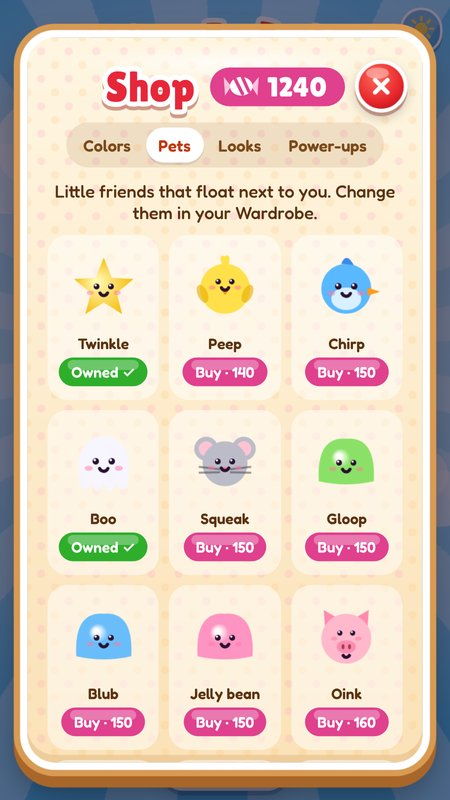
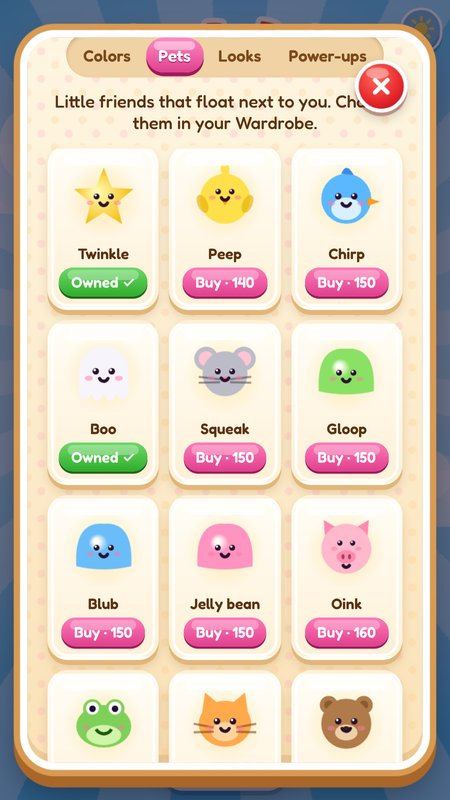
Tienda y vestuario de caramelo: pestañas con brillo, casillas con relieve y regalos envueltos para lo que falta descubrir

diff --git a/index.html b/index.html
@@ -244,13 +244,13 @@ body[data-ev="christmas"] #evBtn{background:rgba(255,255,255,.18)}
 .look.prize.on{border-color:#2fae2c}
 .look .trophy{font-size:11px;font-weight:700;color:#a35f00;letter-spacing:.06em;text-transform:uppercase}
 @media (max-width:420px){ .wtab{font-size:13px;padding:6px 10px} }
-.buy.owned{background:#2fae2c;color:#fff;opacity:1;cursor:default}
+.buy.owned{background:linear-gradient(#6fd86a,#2fae2c);box-shadow:0 2px 0 #1c6a1a;color:#fff;opacity:1;cursor:default}
 .sheet::-webkit-scrollbar{display:none;width:0;height:0}   /* panels scroll with the finger, no bar on the side */
 @media (max-width:420px){ .itab{font-size:12px!important;padding:6px 7px!important} .tab{font-size:13px;padding:6px 10px;white-space:nowrap} .tabs{gap:2px;max-width:100%} }
 .isub{margin:6px 0 4px;font:600 13px var(--body);color:#7a4a1c}
 .itab{border:0;background:transparent;font:600 13px var(--body);color:#7a4a1c;padding:6px 9px;white-space:nowrap;border-radius:99px;cursor:pointer}
 .itab.on{background:#fff;color:#c2370f;box-shadow:0 2px 0 rgba(0,0,0,.08)}
-.item{display:flex;flex-direction:column;align-items:center;gap:4px;padding:8px 4px;border-radius:16px;border:3px solid transparent;background:rgba(255,255,255,.5);font:600 12px var(--body);color:#5b3210}
+.item{display:flex;flex-direction:column;align-items:center;gap:4px;padding:8px 4px;border-radius:16px;border:3px solid transparent;font:600 12px var(--body);color:#5b3210}
 .item.on{border-color:#2fae2c;background:#fff}
 .item.mystery{background:rgba(120,90,60,.12);color:#9a7a5a}
 .item .note{font:600 10px/1.2 var(--body);text-align:center;padding:0 4px;opacity:.8;margin-top:-2px}
@@ -260,9 +260,24 @@ body[data-ev="christmas"] #evBtn{background:rgba(255,255,255,.18)}
 .newDot{position:absolute;top:-2px;right:-2px;width:16px;height:16px;border-radius:50%;background:#e8263a;border:2px solid #fff;animation:dotPop 1.2s ease-in-out infinite}
 @keyframes dotPop{50%{transform:scale(1.2)}}
 .item.tap{cursor:pointer;transition:transform .1s}.item.tap:active{transform:scale(.96)}
+/* candy shop: sunken tab rail with a glossy pink tab, raised tiles with a lip and a shine, items on a soft golden glow, still-wrapped presents for what is not found yet */
+.tabs{background:#f0d2a4;box-shadow:inset 0 2px 3px rgba(150,90,30,.3)}
+.tab.on,.itab.on,.wtab.on{position:relative;color:#fff;background:linear-gradient(#ff8ac4,#e0408e);box-shadow:0 3px 0 #a01a5e;text-shadow:0 1px 0 #a01a5e}
+.tab.on::after,.itab.on::after,.wtab.on::after{content:"";position:absolute;left:14%;right:14%;top:3px;height:7px;border-radius:99px;background:rgba(255,255,255,.45)}
+.item,.look{position:relative;background:linear-gradient(#fffdf6,#fff0d6);box-shadow:0 4px 0 #e2b67a,0 6px 8px rgba(150,90,30,.2),inset 0 0 0 2px #fff}
+.item::after,.look::after{content:"";position:absolute;left:12%;right:12%;top:4px;height:9px;border-radius:99px;background:rgba(255,255,255,.75);pointer-events:none}
+.item canvas,.item img,.look canvas,.look img{background:radial-gradient(closest-side,rgba(255,215,110,.5),rgba(255,215,110,0))}
+.item.mystery,.look.locked{background:linear-gradient(#f7e2c2,#efd2a6);box-shadow:0 4px 0 #d3a464,inset 0 0 0 2px rgba(255,255,255,.6)}
+.look.locked canvas,.look.locked img{background:none}
+.gift{position:relative;z-index:1;width:46px;height:38px;margin:26px 0 2px;border-radius:6px;
+  background:linear-gradient(90deg,transparent 40%,#ffd23a 40% 60%,transparent 60%),repeating-linear-gradient(45deg,#ff7ab8 0 6px,#ff9ccb 6px 12px);box-shadow:inset 0 -5px 0 rgba(0,0,0,.12)}
+.gift::before{content:"";position:absolute;left:-3px;right:-3px;top:-8px;height:11px;border-radius:4px;background:linear-gradient(90deg,#e0408e 40%,#ffd23a 40% 60%,#e0408e 60%)}
+.gift::after{content:"";position:absolute;left:50%;top:-19px;translate:-50% 0;width:32px;height:14px;
+  background:radial-gradient(circle at 50% 80%,#f0a800 3.5px,transparent 4px),radial-gradient(8px 5.5px at 9px 8px,#ffd23a 85%,transparent 100%),radial-gradient(8px 5.5px at 23px 8px,#ffd23a 85%,transparent 100%)}
+
 .item canvas,.item img{width:64px;height:64px}
-.buy{border:0;border-radius:99px;padding:4px 10px;font:600 12px var(--body);cursor:pointer;background:#e0408e;color:#fff;min-width:64px}
-.buy:disabled{background:#c9b8a8;cursor:not-allowed}
+.buy{border:0;border-radius:99px;padding:4px 10px;font:600 12px var(--body);cursor:pointer;background:linear-gradient(#ff7ab8,#e0408e);box-shadow:0 2px 0 #a01a5e;color:#fff;min-width:64px}
+.buy:disabled{background:#c9b8a8;box-shadow:0 2px 0 #9a8a7a;cursor:not-allowed}
 .sheet{scrollbar-width:none;overflow-x:hidden;box-sizing:border-box;width:min(100%,440px);max-height:100%;overflow:auto;background:var(--candyPanel);border:6px solid #fff;box-shadow:var(--candyRim);border-radius:28px;
   padding:18px 16px 20px;display:flex;flex-direction:column;align-items:center;gap:10px;color:#5b3210}
 .sheet > .pill{display:none}   /* closing is done with the X at the top (and by tapping outside) */
@@ -289,7 +304,7 @@ body[data-ev="christmas"] #evBtn{background:rgba(255,255,255,.18)}
 .sheet h2{margin:0;font:400 34px var(--display);color:#c2370f}
 .sheet .sub{margin:0;font-size:14px;font-weight:500;max-width:34ch}
 .grid{display:grid;grid-template-columns:repeat(auto-fill,minmax(84px,1fr));gap:8px;width:100%}
-.look{display:flex;flex-direction:column;align-items:center;gap:2px;padding:6px 2px 8px;border-radius:16px;border:3px solid transparent;background:rgba(255,255,255,.45);cursor:pointer;font:600 12px var(--body);color:#5b3210}
+.look{display:flex;flex-direction:column;align-items:center;gap:2px;padding:6px 2px 8px;border-radius:16px;border:3px solid transparent;cursor:pointer;font:600 12px var(--body);color:#5b3210}
 .look canvas,.look img{width:64px;height:64px}
 .look.locked{cursor:default;color:#9a7a5a}
 .look.on{border-color:#2fae2c;background:#fff}
@@ -4411,16 +4426,10 @@ function renderShop(){
     const key = shopTab==="skins" ? "skin:"+it.id : shopTab==="pets" ? "pet:"+it.id : shopTab==="looks" ? "look:"+it.id : null;
     if(key && it.price>0 && !isFound(key)){   // not found yet: a mystery
       const card = document.createElement("div"); card.className = "item mystery";
-      const c = document.createElement("canvas"); c.width=128; c.height=128; card.appendChild(c);
-      shopTab==="skins" ? paintSkin(c, it.id) : shopTab==="pets" ? paintPet(c, it.id) : paintLook(c, it.id, false, 2.4);
-      // a flat, fully solid silhouette: see-through skins (like the ghost) must not show their face through it
-      const c2 = c.getContext("2d"); c2.setTransform(1,0,0,1,0,0); c2.globalAlpha = 1;
-      const im = c2.getImageData(0,0,128,128), d = im.data;
-      for(let i=0;i<d.length;i+=4){ if(d[i+3] > 12){ d[i]=138; d[i+1]=122; d[i+2]=106; d[i+3]=255; } else d[i+3]=0; }
-      c2.putImageData(im,0,0); c2.globalCompositeOperation="source-over"; c2.fillStyle="#fff"; c2.font='44px "Lilita One", system-ui'; c2.textAlign="center"; c2.textBaseline="middle"; c2.fillText("?",64,66);
+      const g = document.createElement("i"); g.className = "gift"; card.appendChild(g);   // still wrapped: a present
       const nm = document.createElement("span"); nm.textContent = "???"; card.appendChild(nm);
       const hint = document.createElement("small"); hint.className = "hint"; hint.textContent = `From ring ${LOCKS.find(x=>x.key===key).ring}`; card.appendChild(hint);
-      grid.appendChild(card); toImg(c); return;
+      grid.appendChild(card); return;
     }
     const card = document.createElement("div"); card.className = "item" + (key && shopNew.has(key) ? " fresh" : "");
     const c = document.createElement("canvas"); c.width=128; c.height=128; card.appendChild(c);
